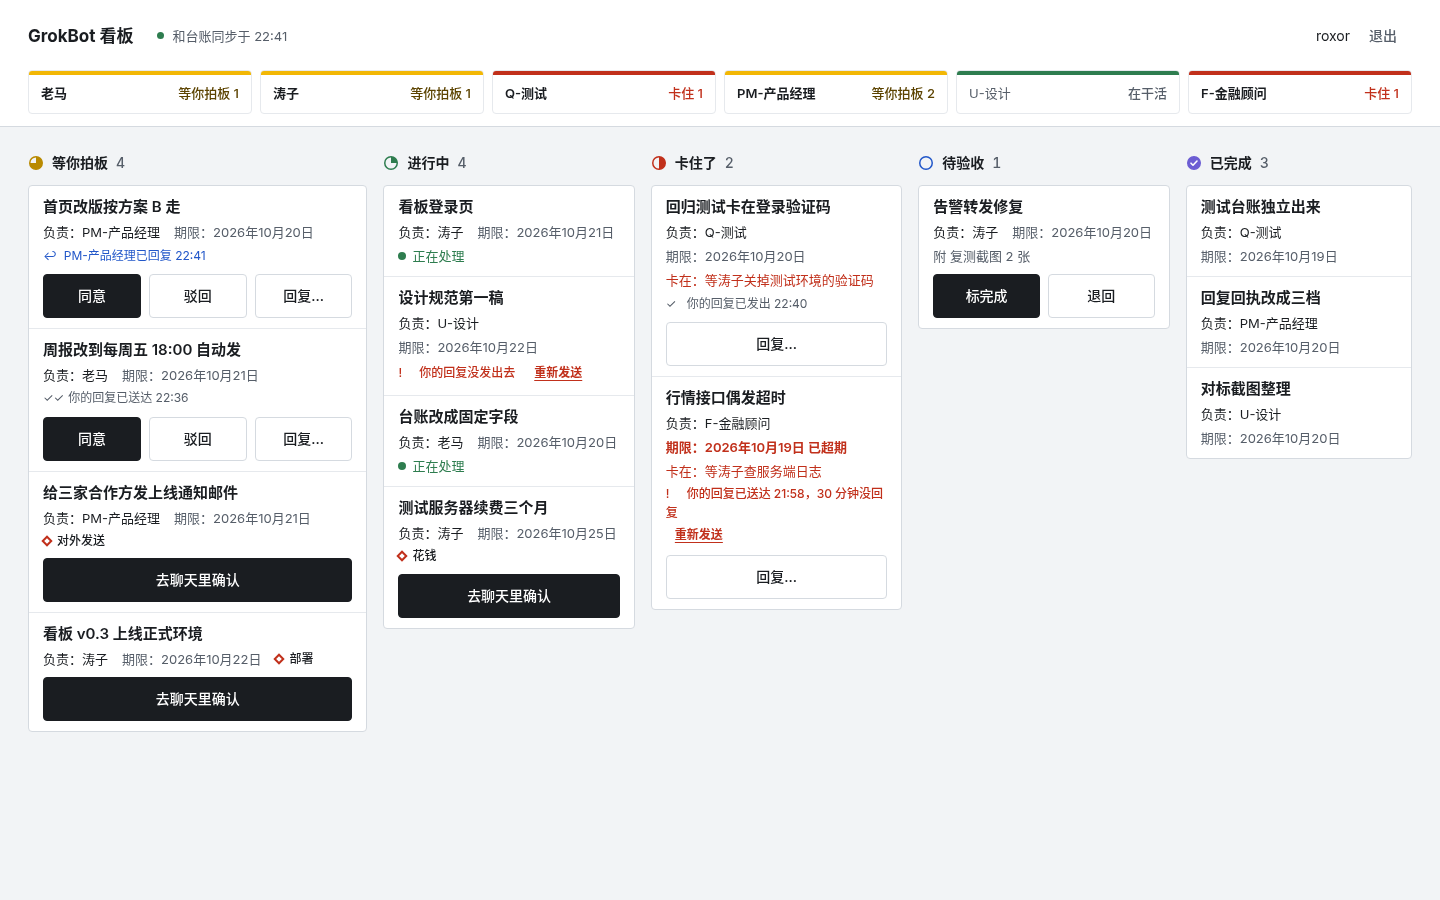
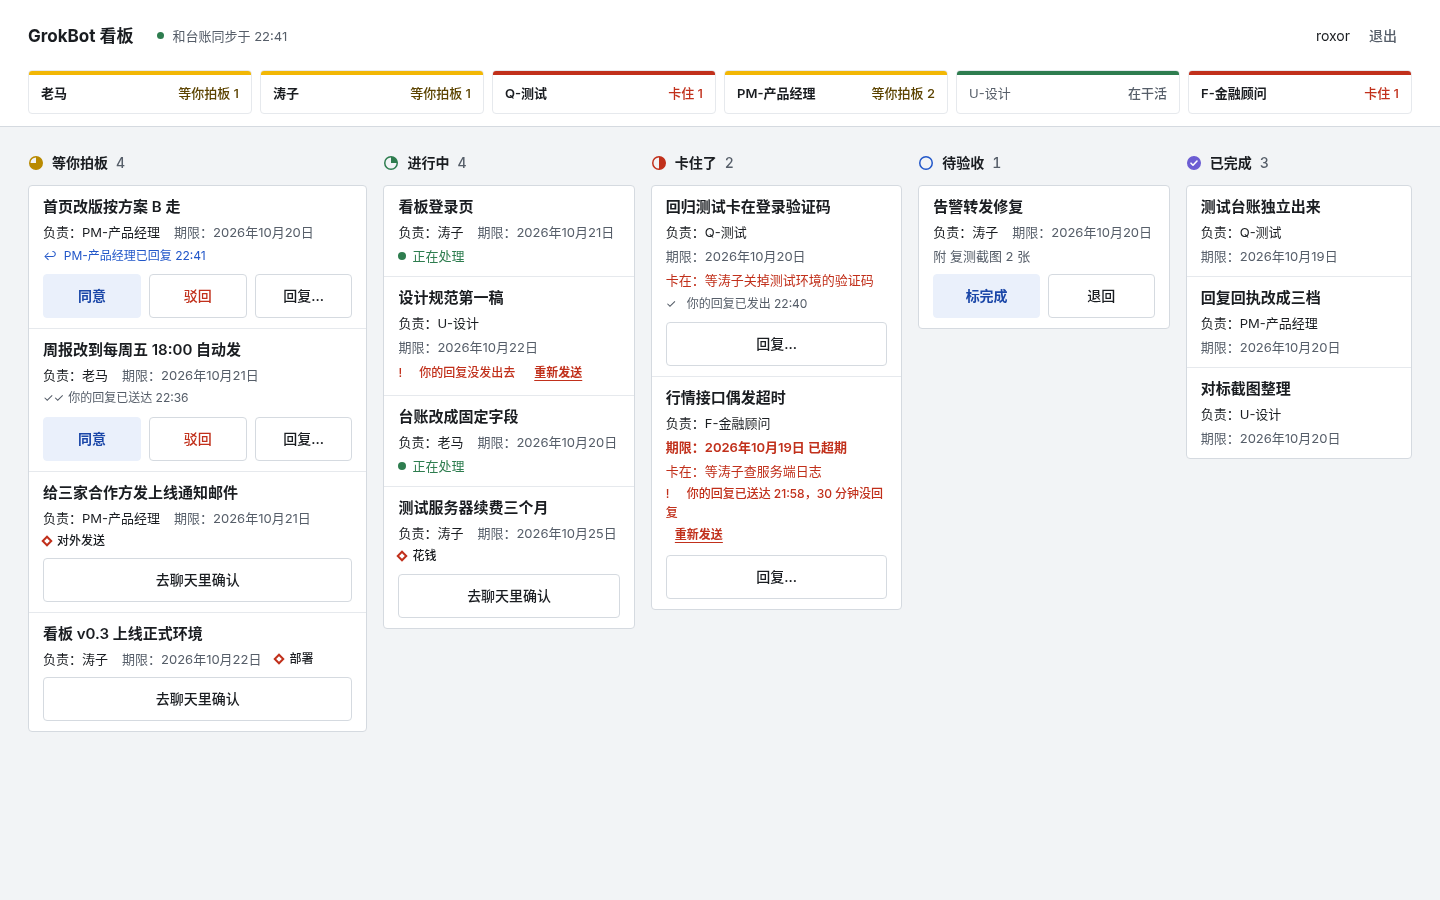
kanban: B 方向稿更新（每屏最多一个蓝色实心按钮）

diff --git a/kanban/directions/B.html b/kanban/directions/B.html
@@ -117,7 +117,7 @@ time{font-variant-numeric:tabular-nums}
   .acct{grid-column:3;grid-row:1}
   .sync-fail{margin:0;justify-self:start}
   .board{padding:0 28px 40px}
-  .cols{display:grid;grid-template-columns:repeat(6,minmax(0,1fr));gap:16px;align-items:start}
+  .cols{display:grid;grid-template-columns:repeat(5,minmax(0,1fr));gap:16px;align-items:start}
   .col.collapsed .cards{display:flex}
   .col-toggle{pointer-events:none}
   .tog-ic{display:none}
@@ -141,7 +141,7 @@ time{font-variant-numeric:tabular-nums}
 
 /* B 安灯 */
 :root{--bg:#F2F4F6;--surface:#FFFFFF;--text:#1A1D21;--muted:#565E69;--line:#D5DAE0;--line-2:#E6E9ED;
-  --amber:#F2B705;--amber-ink:#5C4300;--red:#C1301B;--red-bg:#FDEEEB;--green:#2E7D4F;--blue:#2257C9;
+  --amber:#F2B705;--amber-ink:#5C4300;--red:#C1301B;--red-bg:#FDEEEB;--green:#2E7D4F;--blue:#2257C9;--blue-ink:#1B47A8;--blue-tint:#EAF0FB;--fill:#EEF0F3;--red-line:#E3A196;
   --ui:"Inter","Noto Sans CJK SC","Noto Sans SC",sans-serif}
 body{background:var(--bg);color:var(--text);font:14px/1.55 var(--ui)}
 :focus-visible{outline:2px solid var(--blue);outline-offset:2px}
@@ -153,15 +153,26 @@ body{background:var(--bg);color:var(--text);font:14px/1.55 var(--ui)}
 .sync-fail .sync-t{font-weight:600}
 .sync-how{font-size:13px;color:#7D1E10}
 .sync-ic{display:inline-grid;place-items:center;width:16px;height:16px;border-radius:50%;background:var(--red);color:#fff;font-size:11px;font-weight:700;flex:none;align-self:center}
+/* 按钮：整屏最多一个实心主按钮；主色用 B 自带强调蓝 --blue（白字 6.41:1），不用纯黑。
+   卡片上的同意/标完成/改状态 = 浅蓝调底；其余 = 白底细描边或浅灰底；危险 = 红字红描边，不用红实底。 */
 .btn{border-radius:4px;background:var(--surface);border-color:var(--line);color:var(--text);font-weight:500;font-size:14px}
 .btn:hover{border-color:#AEB5BE}
-.btn-primary{background:var(--text);border-color:var(--text);color:#fff}
-.btn-primary:hover{background:#353A42}
-.btn-danger{background:var(--red);border-color:var(--red);color:#fff}
+.btn-primary{background:var(--blue-tint);border-color:var(--blue-tint);color:var(--blue-ink);font-weight:600}
+.btn-primary:hover{background:#DCE6F8;border-color:#DCE6F8}
+.d-acts .btn-primary,.sheet .btn-primary,.btn-login{background:var(--blue);border-color:var(--blue);color:#fff}
+.d-acts .btn-primary:hover,.sheet .btn-primary:hover,.btn-login:hover{background:var(--blue-ink);border-color:var(--blue-ink)}
+body:has(.layer-sheet) .detail .btn-primary:not(.comp-open){background:var(--blue-tint);border-color:var(--blue-tint);color:var(--blue-ink)}
+.card .btn-chat{background:var(--surface);border-color:var(--line);color:var(--text);font-weight:500}
+.card .btn-chat:hover{border-color:#AEB5BE}
+.comp-open,.sh-acts .btn[data-act="close"]{background:var(--fill);border-color:var(--fill);color:var(--text);font-weight:500}
+.comp-open:hover,.sh-acts .btn[data-act="close"]:hover{background:#E4E7EB;border-color:#E4E7EB}
+.btn-danger,.btn-sync{background:var(--surface);border-color:var(--red-line);color:var(--red);font-weight:600}
+.btn-danger:hover,.btn-sync:hover{background:var(--red-bg);border-color:var(--red)}
+.acts .btn[data-act="reject"]{color:var(--red)}
+.acts .btn[data-act="reject"]:hover{border-color:var(--red-line)}
 .btn-quiet{border-color:transparent;background:transparent;color:var(--muted)}
 .btn-quiet:hover{color:var(--text);border-color:transparent}
 .btn:disabled{background:var(--bg);color:#626973;border-color:var(--line-2)}
-.btn-sync{background:var(--red);border-color:var(--red);color:#fff}
 /* 记忆点：安灯条 */
 .andon{margin:10px -16px -10px;border-top:1px solid var(--line-2)}
 .andon ul{display:grid;grid-template-columns:repeat(6,minmax(0,1fr))}
